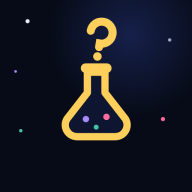
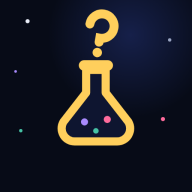
feat: en-tête composé, Baloo 2 auto-hébergée et icône recentrée
L'en-tête du portail ne s'empile plus en pyramide : la marque se lit d'un
bloc (fiole + « Petit labo » côte à côte, halo doux), le titre-question
dessous, des étoiles de décor dans le ciel. Les titres du site (h1, séries,
cartes, conseils) et le logotype parlent en Baloo 2 — la rondeur du logo —
auto-hébergée (assets/fonts/baloo2-latin.woff2, variable 400-800, ~33 Ko,
licence OFL, repli pile système). Le corps du texte reste en pile système.

L'icône PWA est recentrée optiquement (fiole plus grande, marges hautes et
basses équilibrées) — icônes régénérées. Charte mise à jour : typographie,
logotype (jamais empilé), règle des polices (aucune police tierce à
l'exécution, l'auto-hébergement libre est permis).

Claude-Session: https://claude.ai/code/session_01MitMf1Qd9eCPYrDJBbPJW4

diff --git a/css/style.css b/css/style.css
@@ -2,7 +2,18 @@
    Thème sombre « espace » de la série d'astronomie, rond et joueur (public : 5 ans).
    Zéro dépendance. Compat mobiles anciens : pas d'inset, pas d'aspect-ratio requis. */
 
+/* la rondeur des titres : Baloo 2, auto-hébergée (assets/fonts/, licence OFL),
+   variable 400–800 — le corps du texte reste en pile système */
+@font-face {
+  font-family: "Baloo 2";
+  src: url("/assets/fonts/baloo2-latin.woff2") format("woff2");
+  font-weight: 400 800;
+  font-style: normal;
+  font-display: swap;
+}
+
 :root {
+  --titres: "Baloo 2", "Arial Rounded MT Bold", "Trebuchet MS", system-ui, sans-serif;
   --bg: #0b1020;
   --bg2: #0e1530;
   --surface: #121a33;
@@ -34,15 +45,35 @@ body {
 
 /* ---------- entête ---------- */
 
-.site-header { max-width: 900px; margin: 0 auto; padding: 38px 20px 10px; text-align: center; }
-.logo-fiole { display: block; width: 88px; height: 88px; margin: 0 auto 2px; }
-.kicker {
-  margin: 0; color: var(--sun); font-size: .8rem; font-weight: 700;
-  letter-spacing: .14em; text-transform: uppercase;
+/* la marque se lit d'un bloc : fiole + nom côte à côte (plus d'empilement en
+   pyramide), le titre-question dessous, quelques étoiles posées dans le ciel */
+.site-header {
+  position: relative;
+  max-width: 900px; margin: 0 auto; padding: 46px 20px 12px; text-align: center;
 }
-.site-header h1 { margin: .22em 0 .3em; font-size: clamp(2rem, 5.5vw, 3rem); line-height: 1.1; }
+.marque {
+  display: -webkit-flex; display: flex;
+  -webkit-align-items: center; align-items: center;
+  -webkit-justify-content: center; justify-content: center;
+  gap: 13px; margin: 0 0 4px;
+}
+.logo-fiole {
+  display: block; width: 64px; height: 64px;
+  filter: drop-shadow(0 0 16px rgba(255, 207, 92, .25));
+  -webkit-filter: drop-shadow(0 0 16px rgba(255, 207, 92, .25));
+}
+.marque-nom {
+  font-family: var(--titres); font-weight: 800; font-size: 2.1rem;
+  line-height: 1; color: var(--text); padding-top: 10px;
+}
+.marque-nom .or { color: var(--sun); }
+.site-header h1 {
+  font-family: var(--titres); font-weight: 700;
+  margin: .35em 0 .25em; font-size: clamp(2rem, 5.5vw, 2.9rem); line-height: 1.12;
+}
 .tagline { margin: 0 auto; max-width: 56ch; color: var(--muted); }
 .tagline strong { color: var(--sun); }
+.etoile-tete { position: absolute; border-radius: 50%; pointer-events: none; }
 
 main { max-width: 980px; margin: 0 auto; padding: 18px 20px 40px; }
 
@@ -55,7 +86,7 @@ main { max-width: 980px; margin: 0 auto; padding: 18px 20px 40px; }
 /* ---------- la série et ses cartes ---------- */
 
 .serie { margin: 26px 0 8px; }
-.serie h2 { font-size: 1.15rem; margin: 0 0 14px; }
+.serie h2 { font-family: var(--titres); font-weight: 700; font-size: 1.2rem; margin: 0 0 14px; }
 .serie-emoji { margin-right: 6px; }
 
 .cartes { display: block; }
@@ -76,7 +107,7 @@ main { max-width: 980px; margin: 0 auto; padding: 18px 20px 40px; }
   background: linear-gradient(180deg, var(--surface-2), var(--bg2));
 }
 .carte-emoji { display: block; font-size: 2rem; margin-bottom: 6px; }
-.carte-titre { display: block; font-size: 1.35rem; font-weight: 700; color: var(--sun); }
+.carte-titre { display: block; font-family: var(--titres); font-size: 1.4rem; font-weight: 700; color: var(--sun); }
 .carte-sous { display: block; margin-top: 4px; color: var(--muted); }
 
 /* côte à côte dès qu'il y a la place */
@@ -97,7 +128,7 @@ main { max-width: 980px; margin: 0 auto; padding: 18px 20px 40px; }
   -webkit-justify-content: space-between; justify-content: space-between;
 }
 .conseils summary::-webkit-details-marker { display: none; }
-.conseils-titre { font-size: 1.05rem; margin: 0; }
+.conseils-titre { font-family: var(--titres); font-weight: 700; font-size: 1.1rem; margin: 0; }
 .conseils summary::after {
   content: "▾"; color: var(--muted); margin-left: 10px;
   font-size: 1.6rem; line-height: 1;

diff --git a/index.html b/index.html
@@ -22,22 +22,30 @@
 <body>
 
   <header class="site-header">
-    <!-- le logo de la famille : la fiole à la question (source : assets/marque/fiole.svg) -->
-    <svg class="logo-fiole" viewBox="0 0 100 100" role="img"
-      aria-label="Le Petit labo — une fiole d'où s'échappe un point d'interrogation">
-      <path d="M44 40 L44 54 L30 72 A8 8 0 0 0 37 84 L63 84 A8 8 0 0 0 70 72 L56 54 L56 40 Z"
-            fill="#0e1530" stroke="#ffcf5c" stroke-width="5" stroke-linejoin="round"/>
-      <circle cx="43" cy="72" r="2.2" fill="#a98bff"/>
-      <circle cx="57" cy="70.5" r="2.2" fill="#ff6b9d"/>
-      <circle cx="50" cy="77.5" r="1.7" fill="#46c2a5"/>
-      <rect x="39.5" y="34" width="21" height="6.5" rx="3.25" fill="#ffcf5c"/>
-      <g transform="rotate(10 53 17)">
-        <path d="M45.5 13 A7.5 7.5 0 1 1 53 20.5 L53 23"
-              fill="none" stroke="#ffcf5c" stroke-width="5.5" stroke-linecap="round"/>
-        <circle cx="53" cy="29.5" r="2.9" fill="#ffcf5c"/>
-      </g>
-    </svg>
-    <p class="kicker">Petit labo</p>
+    <!-- quelques étoiles posées dans le ciel de l'en-tête (décor) -->
+    <span class="etoile-tete" style="width:4px;height:4px;background:#e9edf8;top:34px;left:16%" aria-hidden="true"></span>
+    <span class="etoile-tete" style="width:3px;height:3px;background:#9aa5c3;top:62px;right:13%" aria-hidden="true"></span>
+    <span class="etoile-tete" style="width:3px;height:3px;background:#46c2a5;top:118px;left:9%" aria-hidden="true"></span>
+    <span class="etoile-tete" style="width:4px;height:4px;background:#ff6b9d;top:96px;right:22%" aria-hidden="true"></span>
+    <span class="etoile-tete" style="width:3px;height:3px;background:#a98bff;top:30px;right:34%" aria-hidden="true"></span>
+    <span class="etoile-tete" style="width:3px;height:3px;background:#9aa5c3;top:140px;left:27%" aria-hidden="true"></span>
+    <!-- la marque d'un bloc : la fiole (assets/marque/fiole.svg) + le nom, côte à côte -->
+    <p class="marque">
+      <svg class="logo-fiole" viewBox="0 0 100 100" aria-hidden="true">
+        <path d="M44 40 L44 54 L30 72 A8 8 0 0 0 37 84 L63 84 A8 8 0 0 0 70 72 L56 54 L56 40 Z"
+              fill="#0e1530" stroke="#ffcf5c" stroke-width="5" stroke-linejoin="round"/>
+        <circle cx="43" cy="72" r="2.2" fill="#a98bff"/>
+        <circle cx="57" cy="70.5" r="2.2" fill="#ff6b9d"/>
+        <circle cx="50" cy="77.5" r="1.7" fill="#46c2a5"/>
+        <rect x="39.5" y="34" width="21" height="6.5" rx="3.25" fill="#ffcf5c"/>
+        <g transform="rotate(10 53 17)">
+          <path d="M45.5 13 A7.5 7.5 0 1 1 53 20.5 L53 23"
+                fill="none" stroke="#ffcf5c" stroke-width="5.5" stroke-linecap="round"/>
+          <circle cx="53" cy="29.5" r="2.9" fill="#ffcf5c"/>
+        </g>
+      </svg>
+      <span class="marque-nom">Petit <span class="or">labo</span></span>
+    </p>
     <h1>De grandes questions d’enfants</h1>
     <p class="tagline">Des petits sites à toucher, à faire tourner, à écouter.
       Le conteur raconte l’histoire, l’enfant explore.

diff --git a/tools/icone.html b/tools/icone.html
@@ -18,9 +18,10 @@
   }
   .tuile svg {
     position: absolute; top: 50%; left: 50%;
-    /* le dessin de la fiole est plus haut que bas dans son viewBox :
-       -43.5vmin (et non -46) pour un centrage optique */
-    width: 92vmin; height: 92vmin; margin: -41.5vmin 0 0 -46vmin;
+    /* le dessin de la fiole est plus haut que bas dans son viewBox : la taille
+       (102vmin) et le décalage (-47vmin) donnent un centrage OPTIQUE — marges
+       hautes/basses quasi égales, la masse de la fiole légèrement assise */
+    width: 102vmin; height: 102vmin; margin: -47vmin 0 0 -51vmin;
   }
   .etoile { position: absolute; border-radius: 50%; }
 </style>

diff --git a/docs/charte.md b/docs/charte.md
@@ -38,9 +38,9 @@ Les règles du logo :
   maître de la série d'astronomie, pas la couleur.
 - **Un seul objet par fiole de série** : une scène chargée meurt à 48 px.
 - En dessous de ~64 px : version `fiole-petite` (sans éclats, traits épaissis).
-- Le logotype « Petit labo » accompagne la fiole en rondeur type « Baloo » ;
-  pour l'usage en image il se vectorise en tracés (aucune police téléchargée
-  côté site — les pages restent en pile système).
+- Le logotype « Petit labo » s'écrit en **Baloo 2** graisse 800, « labo » en or,
+  posé à droite de la fiole (jamais dessous : empilés, logo + nom + titre font
+  une pyramide). Pour l'usage en image (og:image…) il se vectorise en tracés.
 
 ## Les couleurs de la famille
 
@@ -61,7 +61,15 @@ Le gabarit commun de variables (rodé par l'astronomie, décliné par chaque sé
 ```
 
 Formes : rayons 14 px, panneaux en dégradé `--surface → --bg2`, formes rondes et
-joueuses. Typographie : pile système, kicker en capitales espacées couleur accent,
+joueuses.
+
+**Typographie** : les titres (et le logotype) parlent en **Baloo 2** — la rondeur
+du logo — auto-hébergée dans le dépôt (`assets/fonts/baloo2-latin.woff2`,
+variable 400–800, ~33 Ko, licence OFL, repli
+`"Arial Rounded MT Bold", "Trebuchet MS", system-ui`). Le corps du texte reste en
+pile système : seule la voix des titres est de la marque. Règle : **aucune police
+tierce à l'exécution** (pas de CDN) — une police libre commitée et servie par le
+même GitHub Pages est permise. Kicker en capitales espacées couleur accent,
 titres-questions, apostrophe typographique « ' ». Le détail (planchers mobiles,
 compat anciens navigateurs) est dans le skill `petit-labo`.
 
@@ -112,8 +120,10 @@ emoji-signature à lui (☀ 🌍 🌙…), qui sert de favicon à sa page.
 
 ## Où la marque s'applique
 
-- **Portail** : fiole en tête de page (SVG inline), favicon SVG (fiole-petite en
-  data-URI), icônes PWA générées par `tools/build-icons.mjs`.
+- **Portail** : la marque d'un bloc en tête de page — fiole (SVG inline) et nom
+  « Petit labo » côte à côte, titre-question dessous, étoiles de décor — favicon
+  SVG (fiole-petite en data-URI), icônes PWA générées par `tools/build-icons.mjs`,
+  Baloo 2 sur tous les titres.
 - **Épisodes** : gardent leur favicon-emoji (c'est une force, pas une dette) et le
   pied de page série avec l'emoji de série.
 - **À outiller ensuite** : les images de partage `og:image` (1200 × 630 — fond de
@@ -123,7 +133,11 @@ emoji-signature à lui (☀ 🌍 🌙…), qui sert de favicon à sa page.
 
 À répercuter hors de ce dépôt (fait au fil des chantiers) :
 
-- Le skill `petit-labo` (`references/series.md`) : 🔭 pour l'astronomie, le test
-  du kicker, les rayons 2–4 ci-dessus, et un pointeur vers cette charte.
+- Le skill `petit-labo` (`references/series.md` et `references/conventions.md`) :
+  🔭 pour l'astronomie, le test du kicker, les rayons 2–4 ci-dessus, un pointeur
+  vers cette charte, et l'amendement de la règle des polices (« aucune police
+  téléchargée » → « aucune police tierce à l'exécution ; une police libre
+  auto-hébergée est permise pour les titres »).
 - `la-lune-change-de-forme` : pied de page « Petit labo d'astronomie 🌌 » → 🔭.
-- Les épisodes : balises `og:image` quand le gabarit existera.
+- Les épisodes : Baloo 2 sur les titres (au fil des chantiers, en copiant
+  `assets/fonts/`), et balises `og:image` quand le gabarit existera.

diff --git a/assets/fonts/LISEZMOI.md b/assets/fonts/LISEZMOI.md
@@ -1,0 +1,12 @@
+# Polices auto-hébergées
+
+- `baloo2-latin.woff2` — **Baloo 2** (variable, graisses 400–800, sous-ensemble
+  latin, ~33 Ko), la rondeur des titres et du logotype du Petit labo.
+  © The Baloo 2 Project Authors (<https://github.com/EkType/Baloo2>), sous licence
+  SIL Open Font License 1.1 (<https://openfontlicense.org>) — libre d'usage et de
+  redistribution, y compris auto-hébergée comme ici.
+
+Règle de la maison : aucune police tierce chargée à l'exécution (pas de CDN) —
+le fichier vit dans le dépôt, servi par le même GitHub Pages que le reste, avec
+repli sur la pile système (`font-display: swap`). Le corps du texte reste en pile
+système : seule la voix des titres est de la marque.
